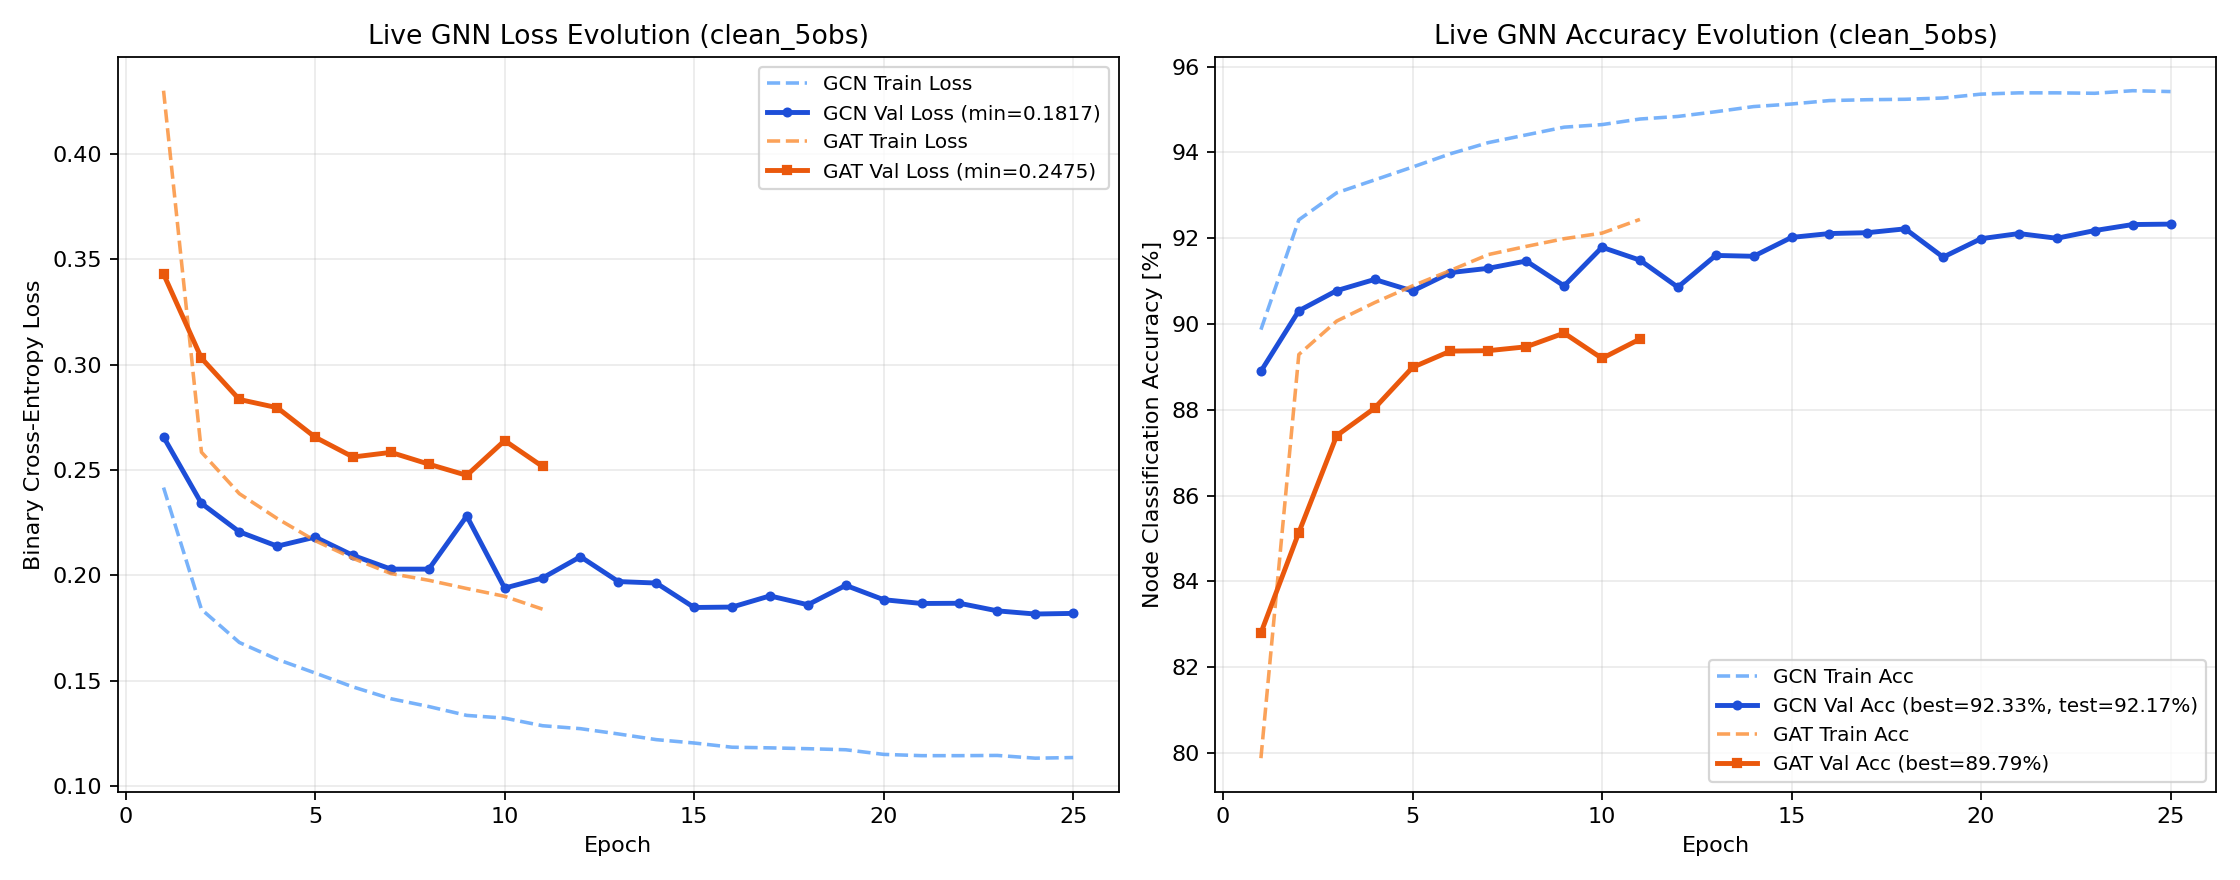
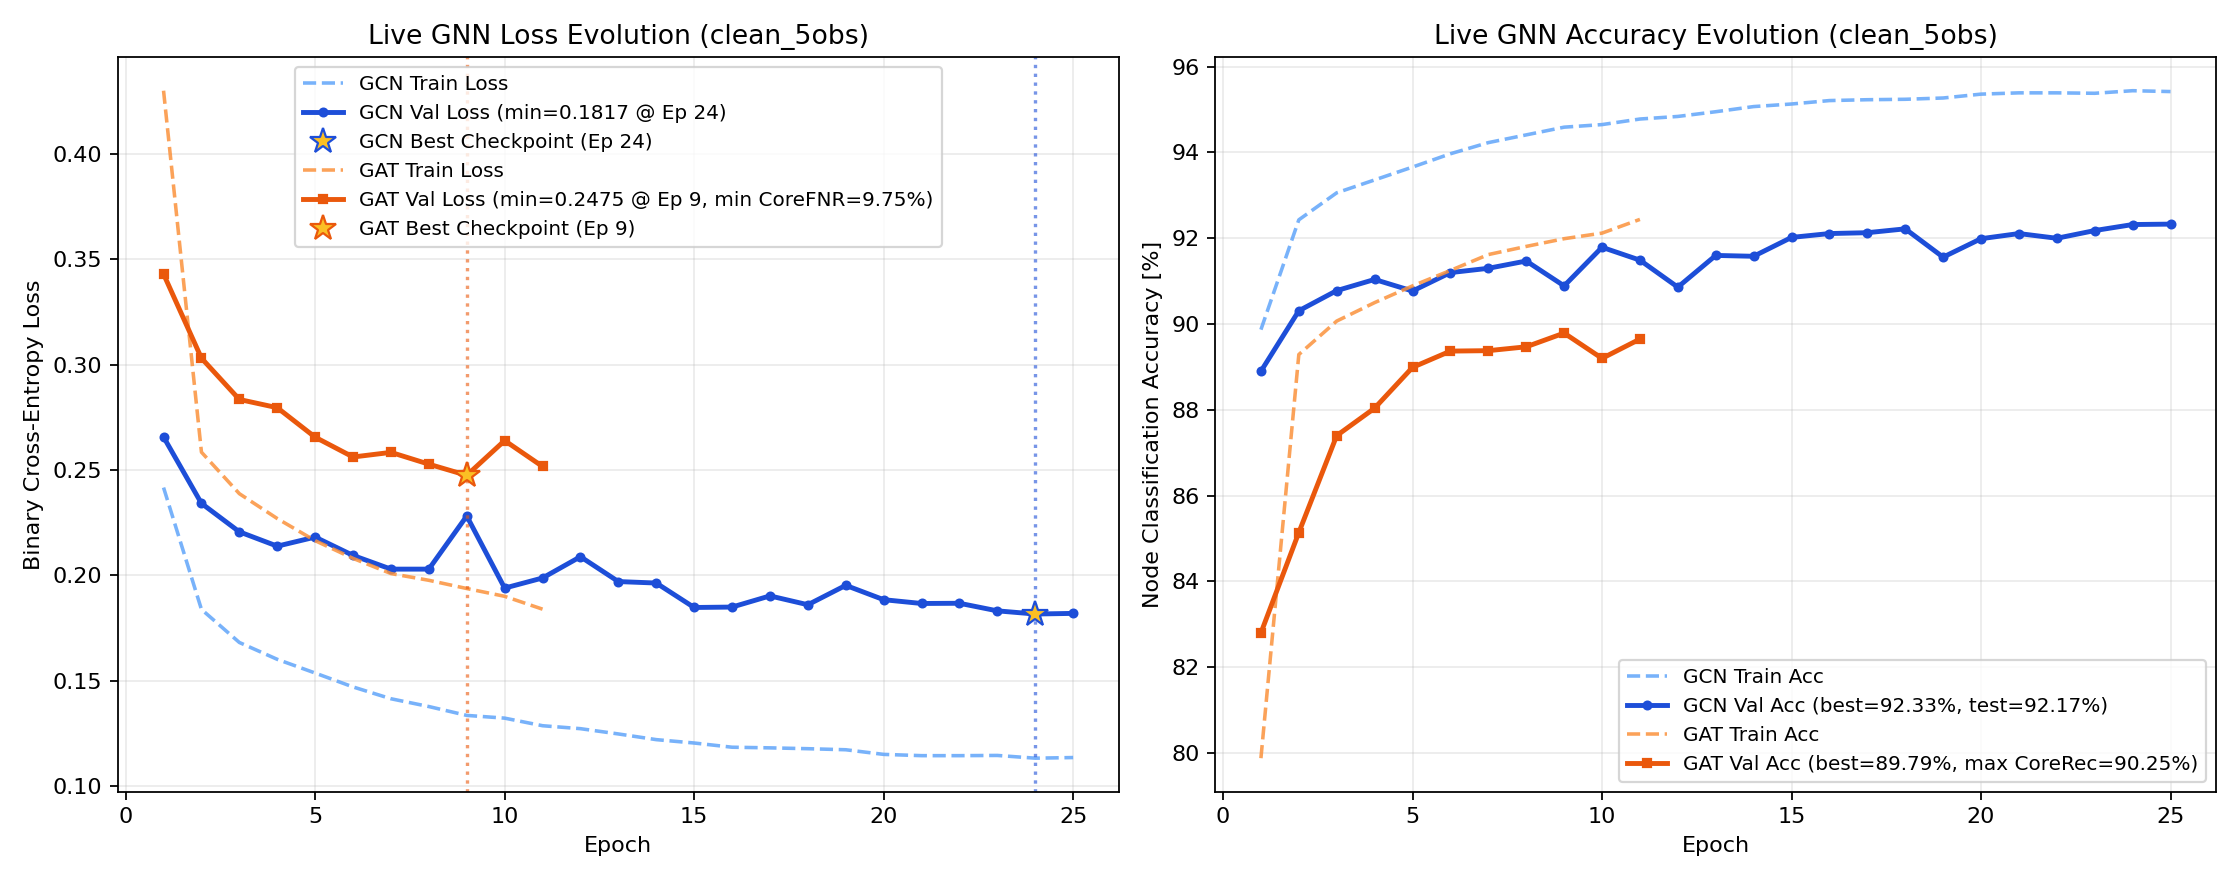
Update Study 2 live status and figures (2026-11-12 23:11)

diff --git a/LIVE_STATUS.md b/LIVE_STATUS.md
@@ -1,30 +1,44 @@
 # Live Pipeline Status on Jed
 
 ```text
-[2026-11-12 23:11:29] Study 2 Pipeline Status on Jed
+[2026-11-12 23:11:44] Study 2 Pipeline Status on Jed
 - Step 1 (Plummer ICs): 81 / 81 ready
 - Step 2 (SWIFT Runs): 81 / 81 completed (101 snapshots)
 - Step 3 (Observables): Labels=81/81 | Clean=81/81 | GaiaNoisy=81/81
 - Step 4 (5D Graphs): Clean=81/81 | GaiaNoisy=81/81
 - Step 5/6 Live GNN Training Progress:
-  * clean_5obs/training_metrics_gat_clean.log: Ep 011 | Train 0.1840 (92.44%) | Val 0.2517 (89.65%, Best=89.79%) | Test=In progress
+  * clean_5obs/training_metrics_gat_clean.log: Ep 011 | Train 0.1840 (92.44%) | Val 0.2517 (89.65%, Best=89.79%) | CoreFNR: 10.68% (min=9.75%) | Test=In progress
   * clean_5obs/training_metrics_gcn_clean.log: Ep 025 | Train 0.1136 (95.42%) | Val 0.1820 (92.33%, Best=92.33%) | Test=92.17%
   * legacy/clean_5obs_static_5rot/training_metrics_gcn_clean.log: Ep 025 | Train 0.1136 (95.42%) | Val 0.1820 (92.33%, Best=92.33%) | Test=92.17%
+- Saved Model Checkpoints (.pth): 8 mirrored in GNN-jed/trained_models/study2/weights/
 
 SLURM Queue:
 JOBID  PARTITION                   NAME   ST       TIME  NODES NODELIST(REASON)
       41146836   academic Study2_Step7_GCNStocha   PD       0:00      2 (Dependency)
 41146835_[0-4%   academic      Study2_Step6_4Obs   PD       0:00      2 (Dependency)
-      41146834   academic   Study2_Step5_Train81    R    8:24:50      2 jst[317,320]
+      41146834   academic   Study2_Step5_Train81    R    8:25:36      2 jst[317,320]
 ```
 
 ## Live Neural Network Training Metrics
 
-| Experiment | Architecture | Latest Epoch | Train Loss | Train Acc | Val Loss | Val Acc | Best Val Acc | Test Acc | Test F1 |
-| :--- | :---: | :---: | :---: | :---: | :---: | :---: | :---: | :---: | :---: |
-| `clean_5obs` | **GAT** | 11 | 0.1840 | 92.44% | 0.2517 | 89.65% | **89.79%** | **In progress** | - |
-| `clean_5obs` | **GCN** | 25 | 0.1136 | 95.42% | 0.1820 | 92.33% | **92.33%** | **92.17%** | 0.8886 |
-| `clean_5obs_static_5rot` | **GCN** | 25 | 0.1136 | 95.42% | 0.1820 | 92.33% | **92.33%** | **92.17%** | 0.8886 |
+| Experiment | Architecture | Latest Epoch | Train Loss | Train Acc | Val Loss | Val Acc | Best Val Acc | Core FNR | Test Acc | Test F1 |
+| :--- | :---: | :---: | :---: | :---: | :---: | :---: | :---: | :---: | :---: | :---: |
+| `clean_5obs` | **GAT** | 11 | 0.1840 | 92.44% | 0.2517 | 89.65% | **89.79%** | 9.75% (val min) | **In progress** | - |
+| `clean_5obs` | **GCN** | 25 | 0.1136 | 95.42% | 0.1820 | 92.33% | **92.33%** | - | **92.17%** | 0.8886 |
+| `clean_5obs_static_5rot` | **GCN** | 25 | 0.1136 | 95.42% | 0.1820 | 92.33% | **92.33%** | - | **92.17%** | 0.8886 |
+
+## Saved Model Weights (`.pth` Checkpoints)
+
+| Checkpoint | Size | Experiment Path | Central Archive Mirror |
+| :--- | :---: | :--- | :--- |
+| `best_gat_clean.pth` | 361.2 KB | `GNN-jed/trained_models/study2/clean_5obs/best_gat_clean.pth` | `GNN-jed/trained_models/study2/weights/best_gat_clean.pth` |
+| `best_gat_clean_ep18_backup.pth` | 361.2 KB | `GNN-jed/trained_models/study2/clean_5obs/best_gat_clean_ep18_backup.pth` | `GNN-jed/trained_models/study2/weights/best_gat_clean_ep18_backup.pth` |
+| `best_gcn_clean.pth` | 120.0 KB | `GNN-jed/trained_models/study2/clean_5obs/best_gcn_clean.pth` | `GNN-jed/trained_models/study2/weights/best_gcn_clean.pth` |
+| `best_gat_clean_ep18_backup.pth` | 361.2 KB | `GNN-jed/trained_models/study2/legacy/clean_5obs_static_5rot/best_gat_clean_ep18_backup.pth` | `GNN-jed/trained_models/study2/weights/best_gat_clean_ep18_backup.pth` |
+| `best_gcn_clean.pth` | 120.0 KB | `GNN-jed/trained_models/study2/legacy/clean_5obs_static_5rot/best_gcn_clean.pth` | `GNN-jed/trained_models/study2/weights/best_gcn_clean.pth` |
+| `best_gat_clean.pth` | 361.2 KB | `GNN-jed/trained_models/study2/legacy/weights/best_gat_clean.pth` | `GNN-jed/trained_models/study2/weights/best_gat_clean.pth` |
+| `best_gat_clean_ep18_backup.pth` | 361.2 KB | `GNN-jed/trained_models/study2/legacy/weights/best_gat_clean_ep18_backup.pth` | `GNN-jed/trained_models/study2/weights/best_gat_clean_ep18_backup.pth` |
+| `best_gcn_clean.pth` | 120.0 KB | `GNN-jed/trained_models/study2/legacy/weights/best_gcn_clean.pth` | `GNN-jed/trained_models/study2/weights/best_gcn_clean.pth` |
 
 ## Real-Time GNN Learning Curves (Loss & Accuracy Evolution)
 
